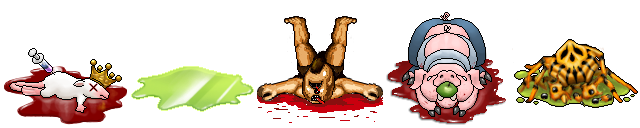
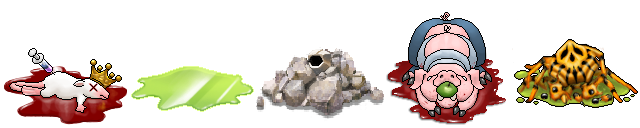
ADD New art for cyclops

Changed region(s): [[0.375, 0.125, 0.625, 0.9375], [0.5312, 0.9375, 0.5625, 0.9688]]

diff --git a/src/CyclopsEntity.cpp b/src/CyclopsEntity.cpp
@@ -26,7 +26,7 @@ CyclopsEntity::CyclopsEntity(float x, float y)
 
 
   type = ENTITY_ENEMY_BOSS;
-  bloodColor = BloodRed;
+  bloodColor = BloodNone; // stones don't bleed
   dyingFrame = 5;
   deathFrame = FRAME_CORPSE_CYCLOP;
   agonizingSound = SOUND_CYCLOP_DIE;
@@ -239,7 +239,7 @@ void CyclopsEntity::animate(float delay)
   else if (state == 1)
   {
     isMirroring = game().getPlayer()->getX() > x;
-    frame = 3;
+    frame = timer > 0.5f ? 4 : 3;
   }
   else if (state == 2)
   {
